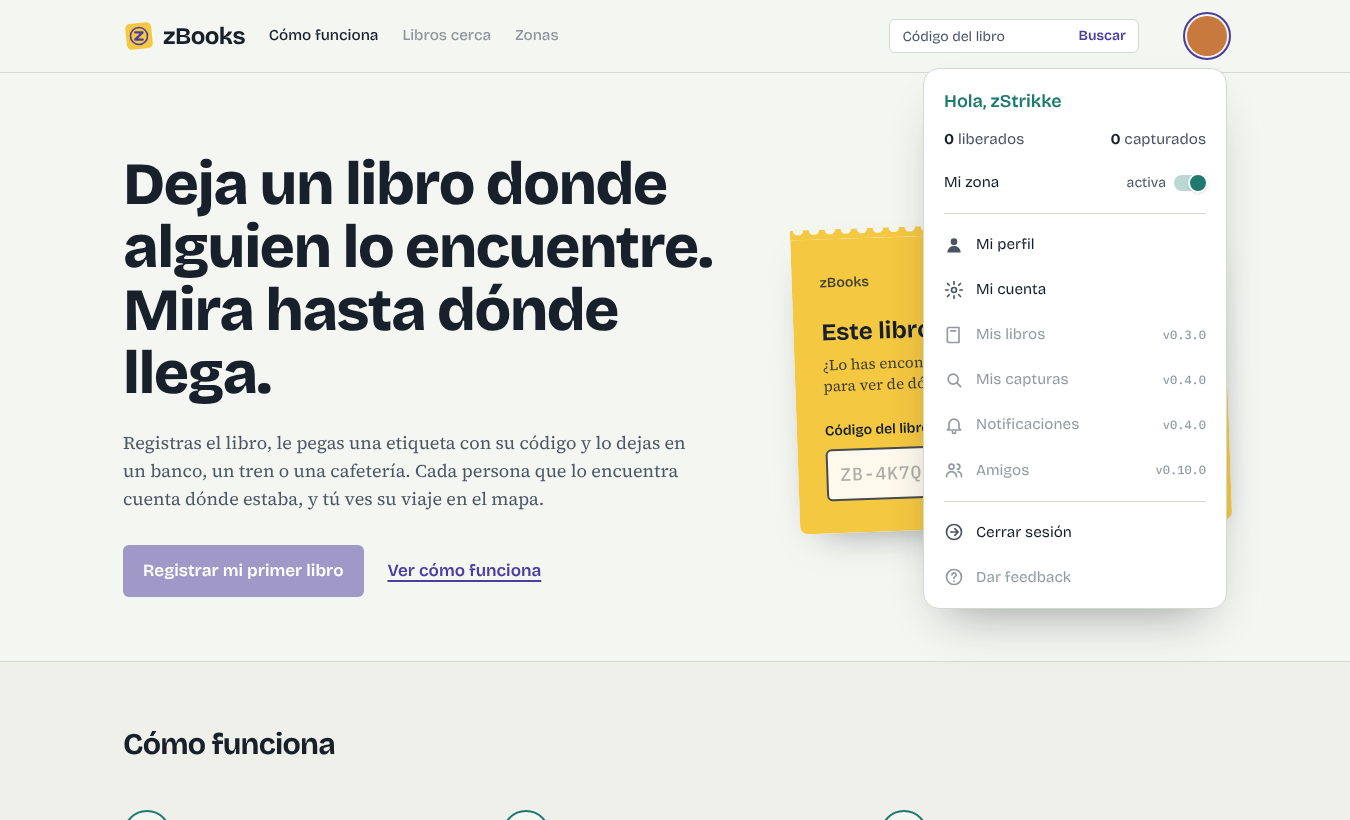
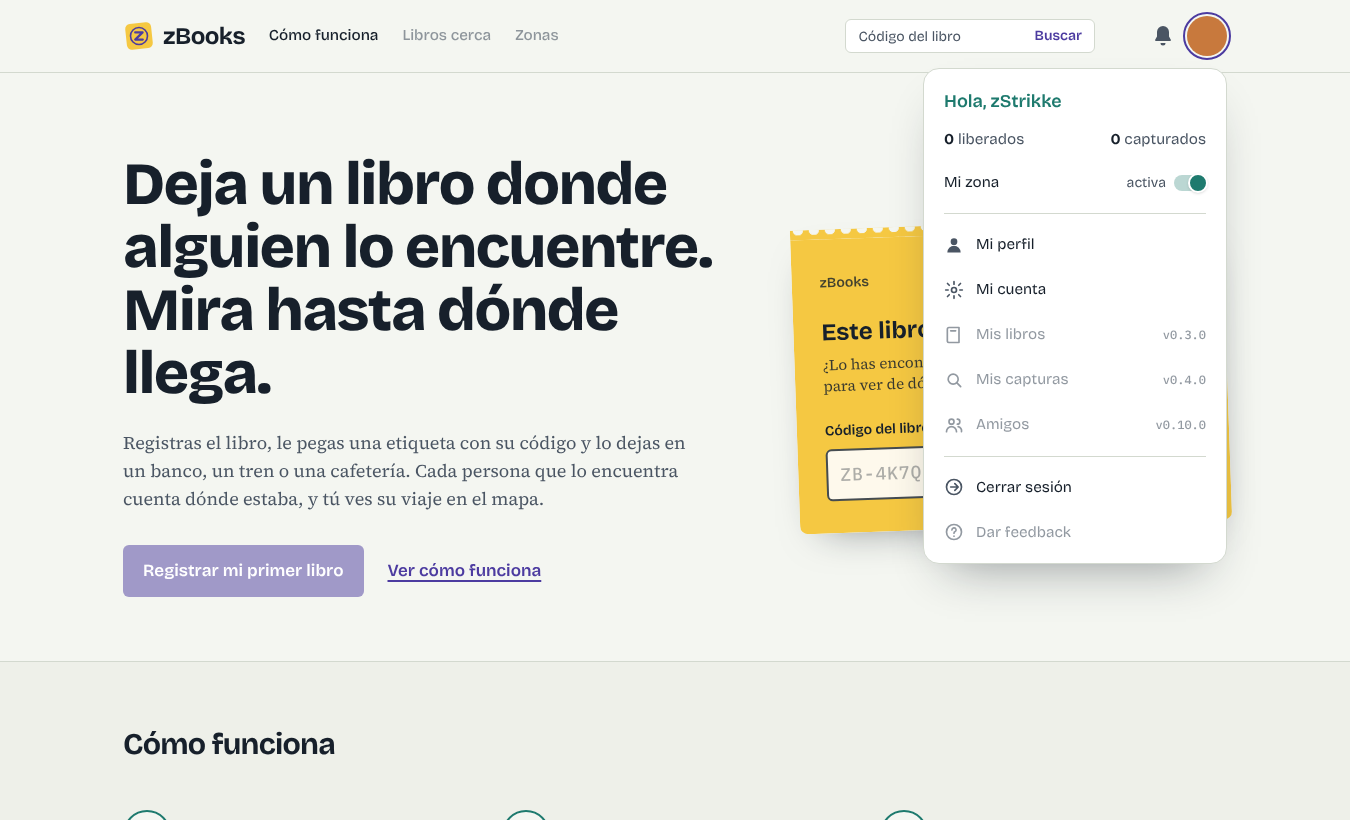
docs(cabecera): capturas de la campana, changelog y diario (#95)
Claude-Session: https://claude.ai/code/session_01CNPkaWmQrEq7utmH7VieTy

diff --git a/docs/DIARIO.md b/docs/DIARIO.md
@@ -1040,9 +1040,10 @@ El PO subía un avatar en Mi cuenta y la página se rompía. El fichero se guard
 - **El avatar abre un menú** (`partials/menu-usuario.blade.php`, Alpine), igual en móvil y escritorio. Se cierra con Escape o al pulsar fuera:
   - «Hola, {username}», libros liberados y capturados (`ProfileStats`, a 0 hasta la v0.3.0) y el estado de Mi zona («activa» o «sin zona», que lleva a la sección);
   - Mi perfil y Mi cuenta;
-  - desactivados con su versión: Mis libros (v0.3.0), Mis capturas y Notificaciones (v0.4.0) y Amigos (v0.10.0);
+  - desactivados con su versión: Mis libros (v0.3.0), Mis capturas (v0.4.0) y Amigos (v0.10.0);
   - Cerrar sesión y Dar feedback (desactivado).
-- La cabecera deja los enlaces sueltos (username, Mi cuenta, Salir); sin sesión no cambia. 4 tests nuevos (193 en total).
+- **Campana de notificaciones** junto al avatar (`partials/notificaciones.blade.php`), a petición del PO: «Tus notificaciones» con los tipos que llegarán, desactivados con su versión: mensajes privados (sin versión aún), capturas de tus libros y libros liberados cerca (v0.5.0, épica #22), eventos (v0.9.0) y solicitudes de amistad (v0.10.0).
+- La cabecera deja los enlaces sueltos (username, Mi cuenta, Salir); sin sesión no cambia. 6 tests nuevos (195 en total).
 
 ### Decisiones
 - **La zona no es un interruptor:** activar o desactivar la zona no existe como función. Se enseña si hay zona, con aspecto de interruptor, y el enlace lleva a Mi zona para cambiarla.

diff --git a/docs/diseno/README.md b/docs/diseno/README.md
@@ -29,5 +29,6 @@ Criterios comunes: **mobile-first** (el móvil se diseña primero), los colores 
 | Mi cuenta | [captura](v0.2.0/capturas/movil-mi-cuenta.png) · [html](v0.2.0/html/movil-mi-cuenta.html) | [captura](v0.2.0/capturas/escritorio-mi-cuenta.png) · [html](v0.2.0/html/escritorio-mi-cuenta.html) | #17 |
 | Mi zona | [captura](v0.2.0/capturas/movil-mi-zona.png) · [html](v0.2.0/html/movil-mi-zona.html) · sin zona: [captura](v0.2.0/capturas/movil-mi-zona-vacia.png) · [html](v0.2.0/html/movil-mi-zona-vacia.html) | [captura](v0.2.0/capturas/escritorio-mi-zona.png) · [html](v0.2.0/html/escritorio-mi-zona.html) | #18 |
 | Menú de usuario | [captura](v0.2.0/capturas/movil-menu-usuario.png) (de la página real) | [captura](v0.2.0/capturas/escritorio-menu-usuario.png) (de la página real) | #95 |
+| Notificaciones (campana) | [captura](v0.2.0/capturas/movil-notificaciones.png) (de la página real) | [captura](v0.2.0/capturas/escritorio-notificaciones.png) (de la página real) | #95 |
 
 **Ideas de cada pantalla en escritorio:** la tarjeta de viaje con sellos (registro), la etiqueta troquelada con el buscador de código (login), el matasellos (verificación), la ficha de socio (perfil; en el lienzo están las tres opciones que se valoraron) y su vista previa a tamaño real (Mi cuenta). En Mi zona, el mapa de las maquetas es un dibujo: la página usa las teselas de OpenStreetMap. Las cifras, lugares y textos entre corchetes son datos de ejemplo.

diff --git a/CHANGELOG.md b/CHANGELOG.md
@@ -26,7 +26,7 @@ Formato basado en [Keep a Changelog](https://keepachangelog.com/es-ES/1.1.0/) y 
 - Guía del desarrollador: comandos, flujo de issue a PR, archivos de referencia y casos frecuentes (#51).
 
 ### Changed
-- Cabecera: con sesión, el avatar abre un menú de usuario (saludo, libros liberados y capturados, estado de Mi zona, Mi perfil, Mi cuenta, Cerrar sesión). Lo que aún no existe sale desactivado con su versión: Mis libros, Mis capturas, Notificaciones, Amigos y Dar feedback (#95).
+- Cabecera: con sesión, el avatar abre un menú de usuario (saludo, libros liberados y capturados, estado de Mi zona, Mi perfil, Mi cuenta, Cerrar sesión). Lo que aún no existe sale desactivado con su versión: Mis libros, Mis capturas, Amigos y Dar feedback. Al lado, una campana abre «Tus notificaciones» con los tipos que llegarán, desactivados: mensajes privados, capturas de tus libros, libros liberados cerca, eventos y solicitudes de amistad (#95).
 - El perfil (`/u/{username}`) deja de ser público: pide sesión y solo lo ve el propio miembro (y sus amigos, cuando llegue la #37). Los demás reciben un 404, como si no existiera (#93).
 - Portada: «Cómo funciona» muestra el ciclo del libro con una línea que vuelve del último paso al primero, y la línea discontinua lleva menos guiones (#91).
 - La API v1 se aplaza a su propio hito (v0.11.0) para priorizar la web; la plantilla de PR y el ADR-0007 lo recogen (#74).
